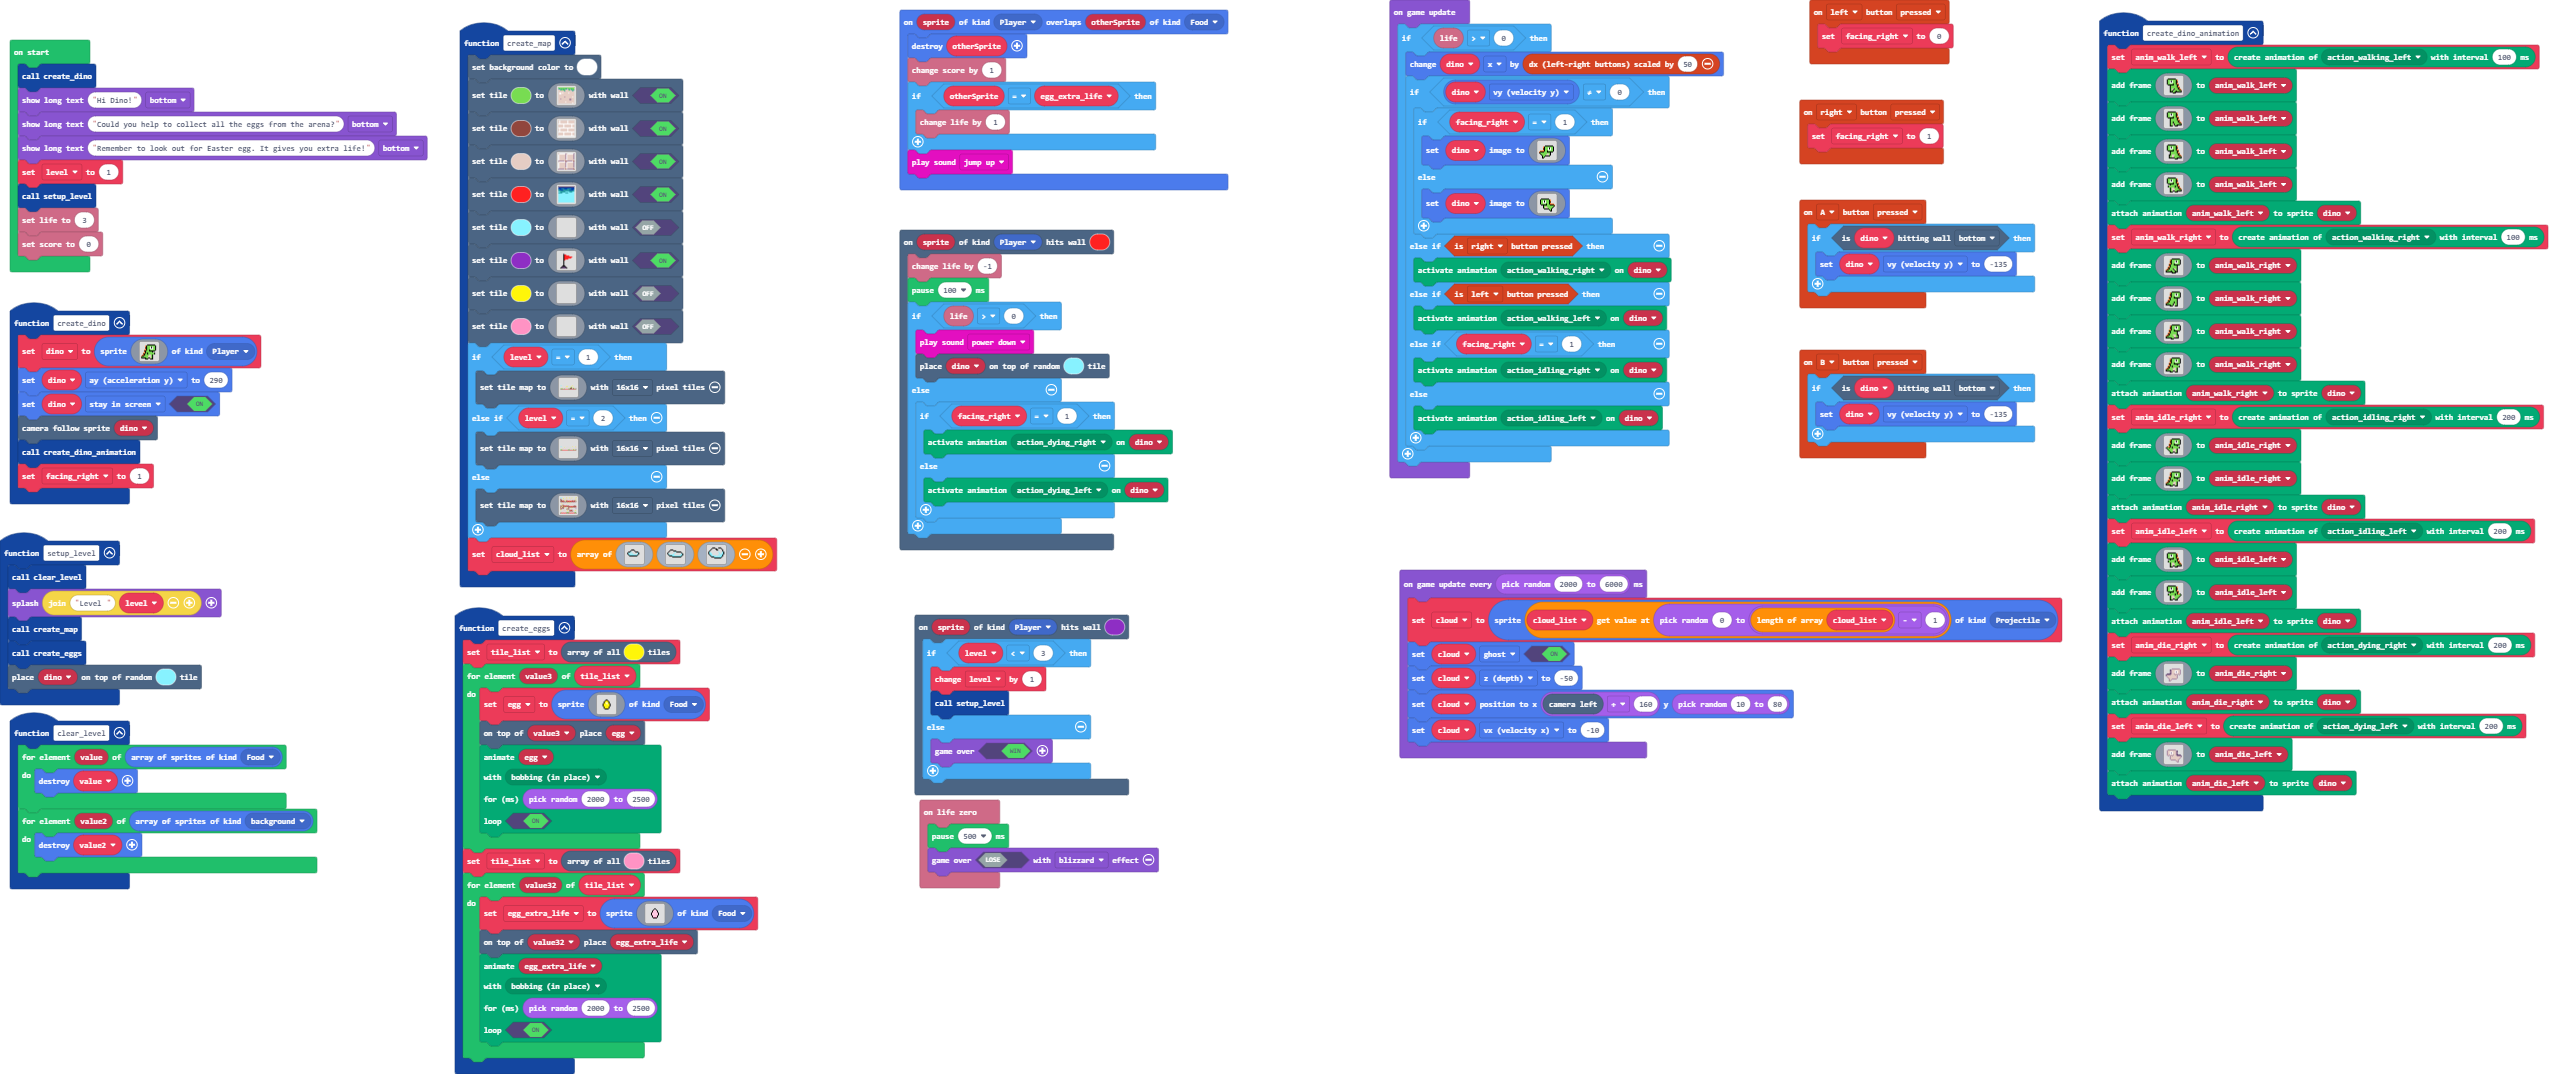
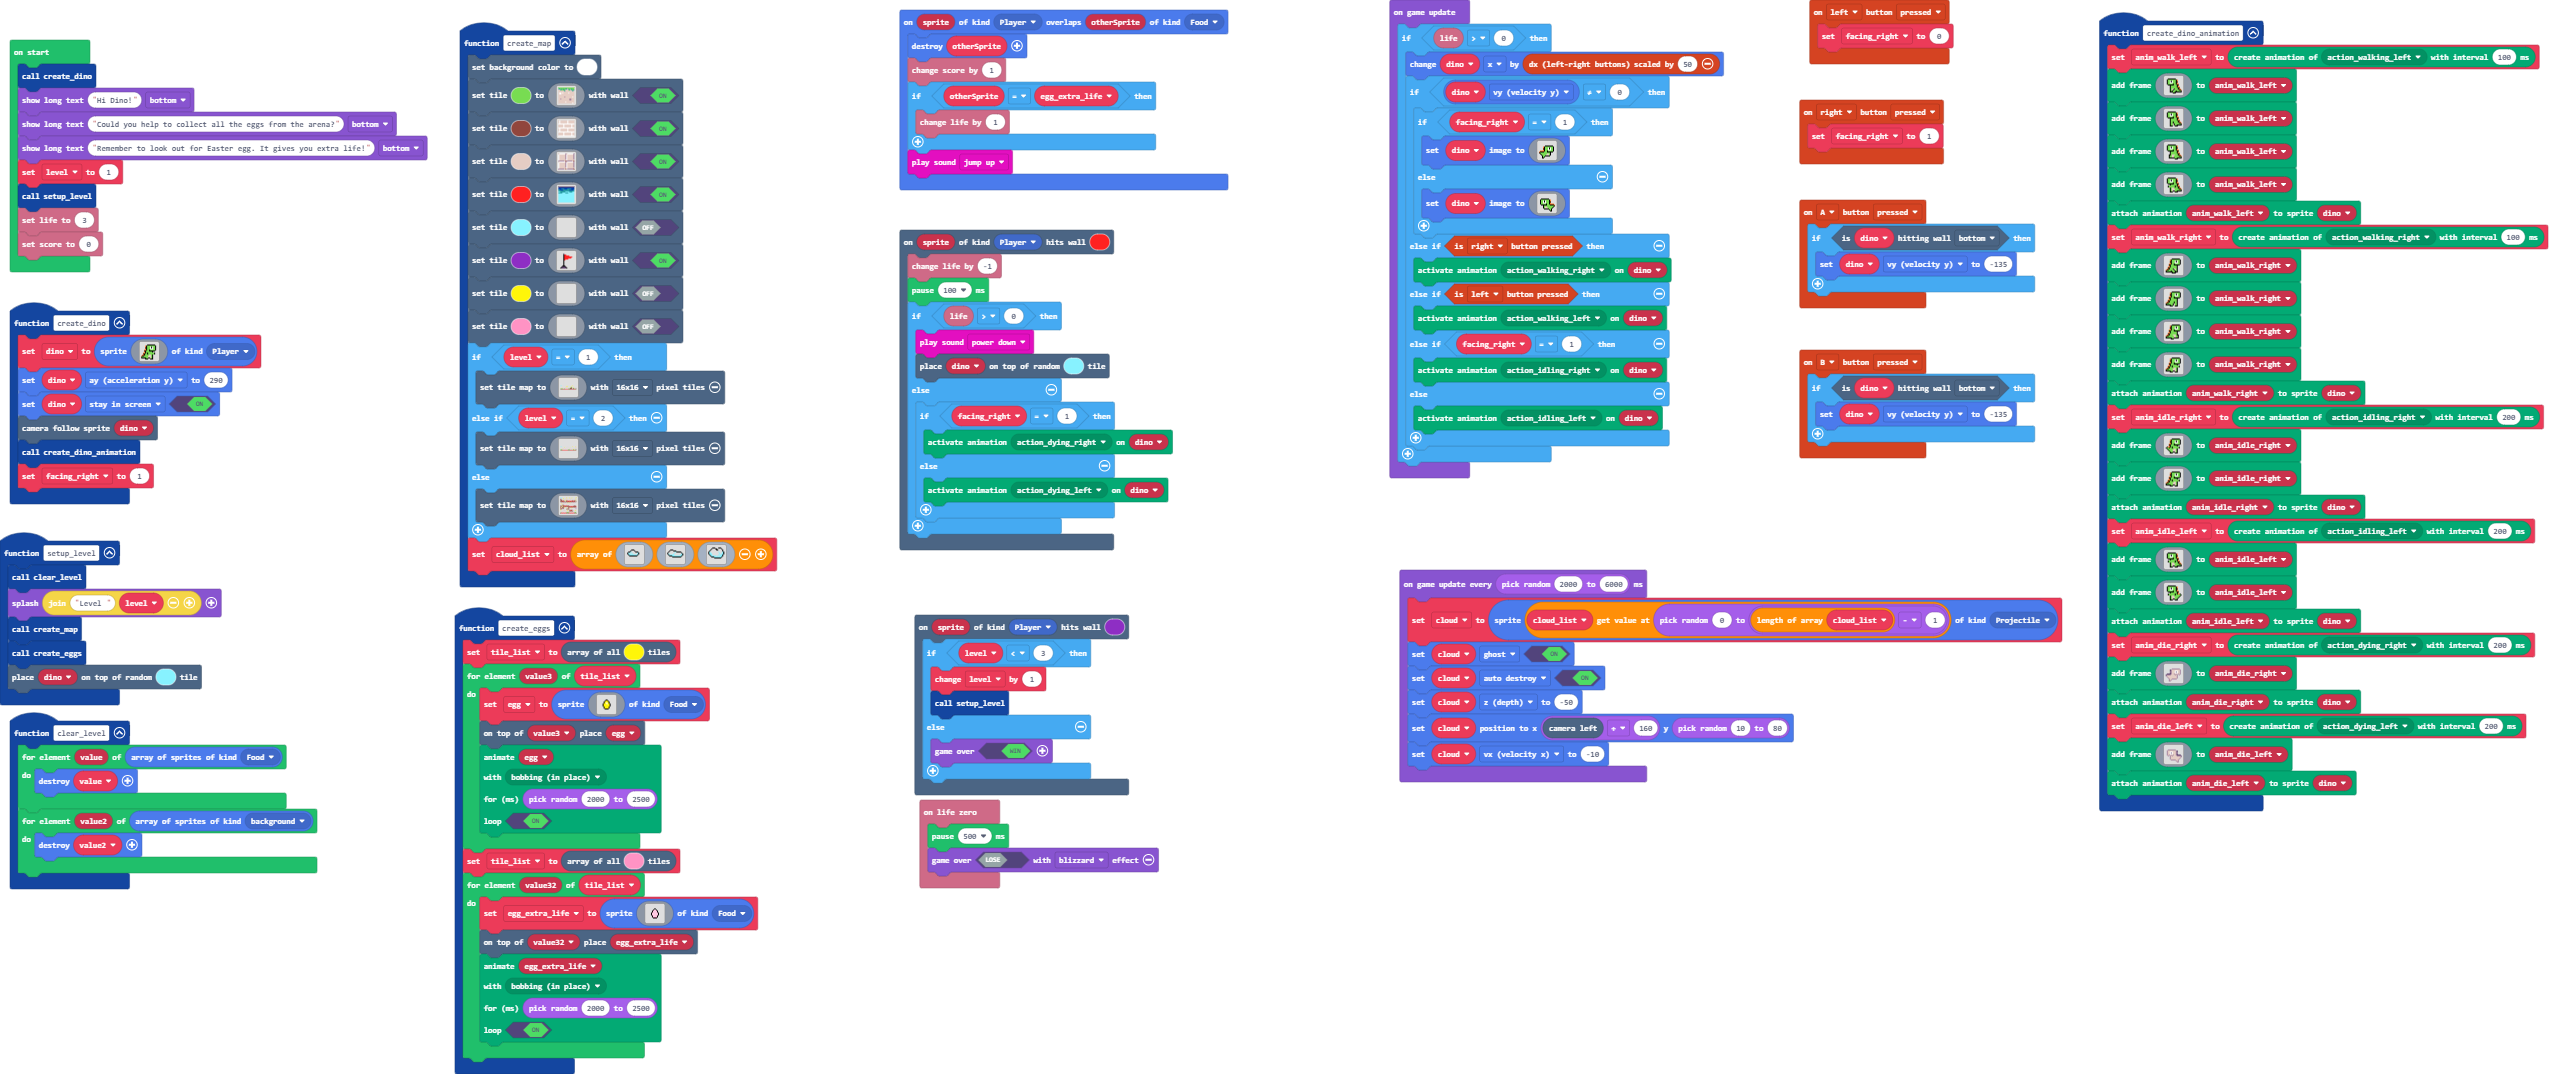
Update main.blocks, main.ts

Changed region(s): [[0.5284, 0.6145, 0.7148, 0.7374]]

diff --git a/main.ts b/main.ts
@@ -755,6 +755,7 @@ game.onUpdate(function () {
 game.onUpdateInterval(randint(2000, 6000), function () {
     cloud = sprites.create(cloud_list[randint(0, cloud_list.length - 1)], SpriteKind.Projectile)
     cloud.setFlag(SpriteFlag.Ghost, true)
+    cloud.setFlag(SpriteFlag.AutoDestroy, true)
     cloud.z = -50
     cloud.setPosition(scene.cameraLeft() + 160, randint(10, 80))
     cloud.vx = -10
